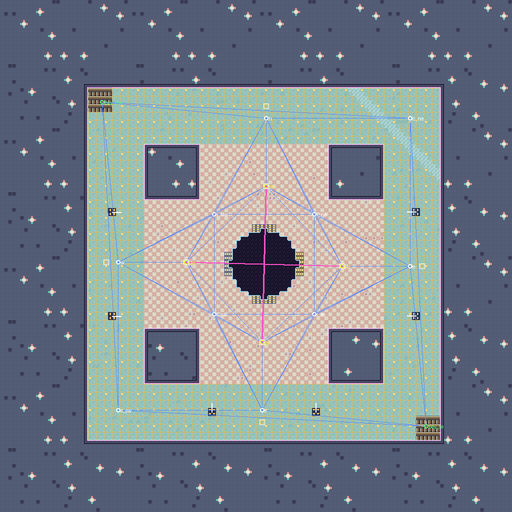
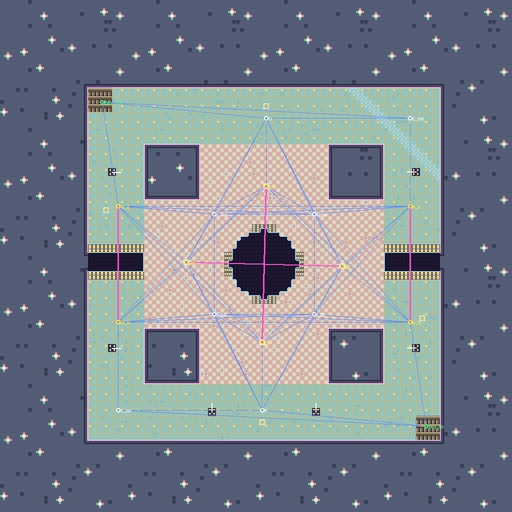
snouty-gc M7 Track B: escalator gap jumps in The Food Court
With only the fountain's kickers the hunters met too rarely: rounds ran
176 to over 480 s (one hit the 8-minute cap). Stalled escalators across
the side lanes over light wells (as Hangar 18's wings) bring them to
103-219 s, all ending by lives, 71 AI-on-AI eliminations in 6 rounds.

diff --git a/carts/snouty-gc/tools/packs/dead_mall.py b/carts/snouty-gc/tools/packs/dead_mall.py
@@ -694,7 +694,8 @@ class FoodCourtArena(PA.PackArena):
     dry fountain (the wishing well: coins and dead phones), the stalled
     escalators are its four kickers, kiosk and planter islands sit at the
     diagonals, and the scrubber circles the old carousel corner (NE). Lit by
-    neon and rack LEDs under the skylight. 16 nav nodes (a 1.7 KB blob) so
+    neon and rack LEDs under the skylight. More stalled escalators cross the
+    side lanes over light wells (gap jumps). 18 nav nodes (a 1.9 KB blob) so
     the slot keeps room for four props cells."""
     name, stem, background = "THE FOOD COURT", "the_food_court", "food"
 
@@ -708,19 +709,27 @@ class FoodCourtArena(PA.PackArena):
             for x in range(n):
                 if math.hypot(x - 43.5, y - 43.5) <= 8.6:
                     k[y, x] = PA.PIT
-        self.kind = k
+        # Stalled escalators across the side lanes too, over the light wells
+        # cut into the floor (gap jumps: rows 41..45).
         self.ramps = []
+        for x0, x1 in ((0, 13), (74, 87)):
+            k[41:46, x0:x1 + 1] = PA.PIT
+            self.ramps.append((x0, 39, x1, 40, 1))
+            self.ramps.append((x0, 46, x1, 47, 3))
+        self.kind = k
         self.kickers = [(41, 34, 46, 35, 1), (41, 52, 46, 53, 3), (34, 41, 35, 46, 0), (52, 41, 53, 46, 2)]
         self.bays = [(0, 0), (82, 82)]
-        self.spawns = [(30, 80, 3), (56, 80, 3), (5, 30, 0), (5, 56, 0), (81, 30, 2), (81, 56, 2)]
-        self.pads = [(44, 4), (43, 83), (4, 43), (83, 44), (44, 24), (43, 63), (24, 43), (63, 44)]
+        self.spawns = [(30, 80, 3), (56, 80, 3), (5, 20, 0), (5, 64, 0), (81, 20, 2), (81, 64, 2)]
+        self.pads = [(44, 4), (43, 83), (4, 30), (83, 57), (44, 24), (43, 63), (24, 43), (63, 44)]
         J, B = 2, 1
         self.set_nodes([
             ("bay_nw", 3, 3, B), ("c_ne", 80, 7, 0), ("c_sw", 7, 80, 0), ("bay_se", 84, 84, B),
-            ("n", 44, 7, 0), ("s", 43, 80, 0), ("w", 7, 43, 0), ("e", 80, 44, 0),
+            ("n", 44, 7, 0), ("s", 43, 80, 0),
+            ("w_a", 7, 29, J), ("w_b", 7, 58, J), ("e_a", 80, 29, J), ("e_b", 80, 58, J),
             ("i_nw", 31, 31, 0), ("i_ne", 56, 31, 0), ("i_sw", 31, 56, 0), ("i_se", 56, 56, 0),
             ("pn", 44, 24, J), ("ps", 43, 63, J), ("pw", 24, 43, J), ("pe", 63, 44, J),
-        ], [("pn", "ps"), ("ps", "pn"), ("pw", "pe"), ("pe", "pw")])
+        ], [("pn", "ps"), ("ps", "pn"), ("pw", "pe"), ("pe", "pw"),
+            ("w_a", "w_b"), ("w_b", "w_a"), ("e_a", "e_b"), ("e_b", "e_a")])
         # The scrubber's round of the carousel corner: diagonally across the
         # NE ring, from a service door in the north rim to one in the east.
         self.mover = dict(a=(63, -3), b=(91, 25), period=840, warn=60, phase=200, damage=40, push=64,
@@ -728,7 +737,7 @@ class FoodCourtArena(PA.PackArena):
         w = PA.rel_world
         self.props = [("palm", *w(17, 17)), ("kiosk", *w(24, 24)), ("palm", *w(70, 17)), ("neon", *w(63, 24)),
                       ("kiosk", *w(17, 70)), ("palm", *w(24, 63)), ("palm", *w(70, 70)), ("neon", *w(63, 63)),
-                      ("neon", *w(44, -4)), ("neon", *w(43, 91)), ("palm", *w(-4, 20)), ("palm", *w(91, 66))]
+                      ("neon", *w(44, -4)), ("neon", *w(43, 91)), ("palm", *w(-4, 34)), ("palm", *w(91, 52))]
 
     def floor(self, tmap, big, rng):
         """Food-court tile in the plaza round the fountain (inside the
